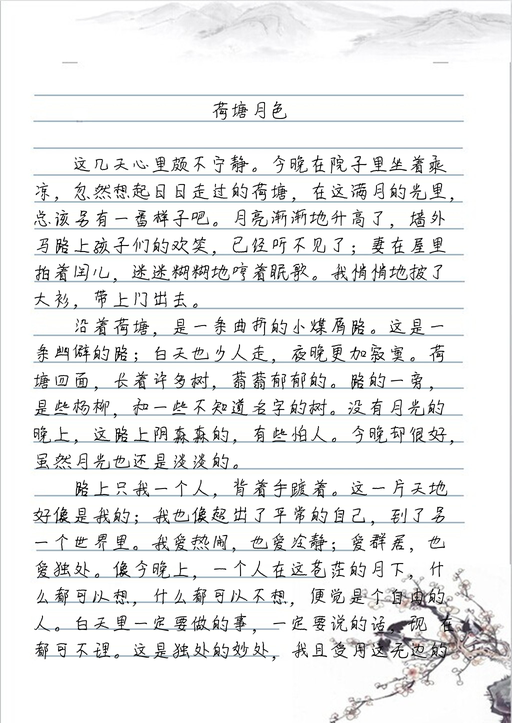
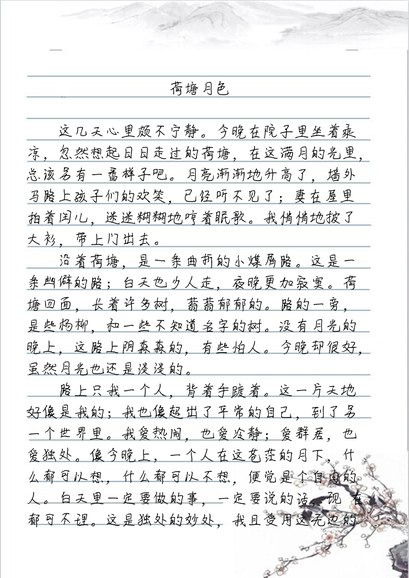
将example/article.py的输出图片的长和宽变为原来的2/5

Changed region(s): [[0.0587, 0.218, 0.8802, 0.9343], [0.4108, 0.1246, 0.5575, 0.1869]]

diff --git a/examples/article.py b/examples/article.py
@@ -31,7 +31,7 @@ def main():
     )
     images = handwrite(TEXT, template)
     for i, im in enumerate(images):
-        im = im.resize(size=(im.size[0] // 2, im.size[1] // 2), resample=Image.LANCZOS)
+        im = im.resize(size=(int(im.size[0] / 2.5), int(im.size[1] / 2.5)), resample=Image.LANCZOS)
         im.save("./out/荷塘月色/{}.png".format(i))
 
 
